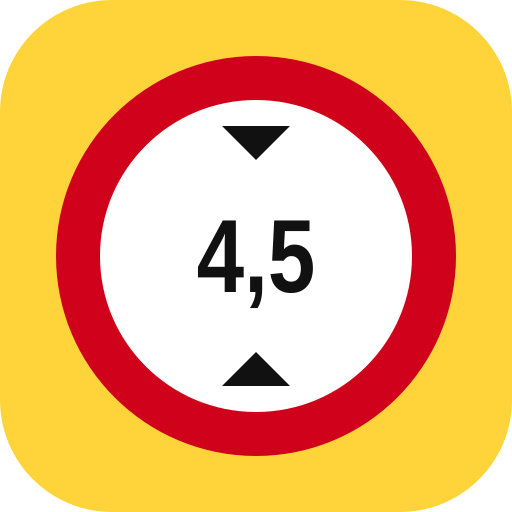
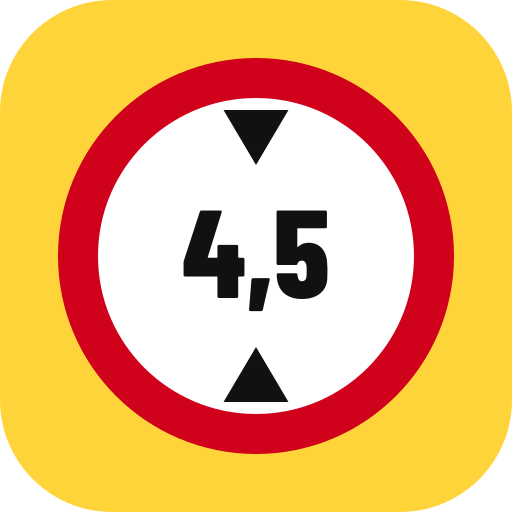
Appikonen får samma höjdskylt som sidhuvudet
Claude-Session: https://claude.ai/code/session_01KKpdg2GMJrMkGjVmT4hKDy

diff --git a/sw.js b/sw.js
@@ -1,5 +1,5 @@
 // Fri höjd – enkel offline-cache för appens egna filer (kartbilderna kräver nät)
-const CACHE = 'frihojd-v23';
+const CACHE = 'frihojd-v24';
 const FILER = ['./', 'index.html', 'style.css', 'app.js', 'vikt.js', 'i18n.js', 'data/hinder.json', 'data/bk.json', 'data/adr.json', 'manifest.webmanifest', 'icon.svg', 'icon-192.png', 'icon-512.png', 'integritet.html', 'lib/leaflet/leaflet.js', 'lib/leaflet/leaflet.css', 'lib/fonts/fonts.css', 'lib/fonts/Barlow-Regular.woff', 'lib/fonts/Barlow-Medium.woff', 'lib/fonts/Barlow-SemiBold.woff', 'lib/fonts/Barlow-Bold.woff', 'lib/fonts/BarlowCondensed-SemiBold.woff', 'lib/fonts/BarlowCondensed-Bold.woff', 'lib/fonts/BarlowCondensed-ExtraBold.woff'];
 self.addEventListener('install', (e) => e.waitUntil(caches.open(CACHE).then((c) => c.addAll(FILER)).then(() => self.skipWaiting())));
 self.addEventListener('activate', (e) => e.waitUntil(caches.keys().then((k) => Promise.all(k.filter((n) => n !== CACHE).map((n) => caches.delete(n)))).then(() => self.clients.claim())));

diff --git a/index.html b/index.html
@@ -6,10 +6,10 @@
 <meta name="theme-color" content="#FFD43B">
 <title>Fri höjd</title>
 <meta name="description" content="Höjdhinder på svenska vägar för lastbilar, enligt Trafikverkets vägdata (NVDB).">
-<link rel="manifest" href="manifest.webmanifest">
-<link rel="icon" href="icon-192.png" type="image/png" sizes="192x192">
+<link rel="manifest" href="manifest.webmanifest?v=2">
+<link rel="icon" href="icon-192.png?v=2" type="image/png" sizes="192x192">
 <link rel="icon" href="icon.svg" type="image/svg+xml">
-<link rel="apple-touch-icon" href="apple-touch-icon.png">
+<link rel="apple-touch-icon" href="apple-touch-icon.png?v=2">
 <meta name="apple-mobile-web-app-capable" content="yes">
 <meta name="mobile-web-app-capable" content="yes">
 <meta name="apple-mobile-web-app-title" content="Fri höjd">
